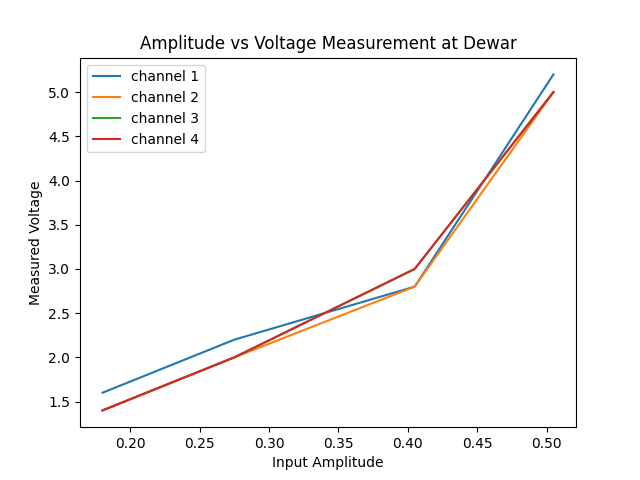
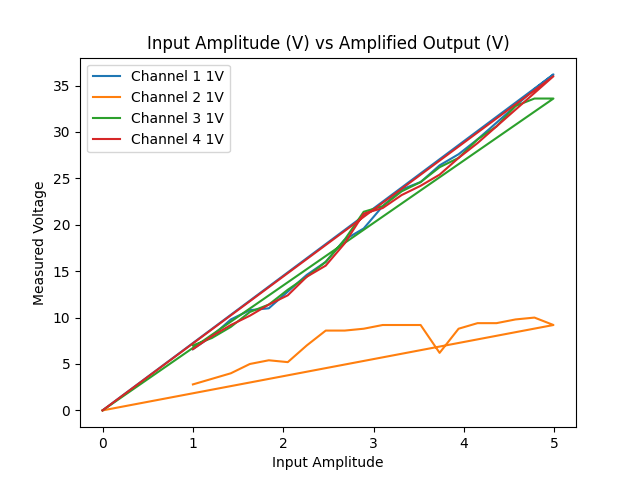
n2 amp complete

diff --git a/latex/chap9.tex b/latex/chap9.tex
@@ -4,27 +4,46 @@
 \chapter{Amplifier Revision Design}
 The investigation of the first generation amp design and testing gave the team useful insight into what needed to change for the next hardware revision. An evaluation of the goals of Nessie2 provided the basis for the redesign. By exploring a number of hardware architecture choices we begin to rebuild the amplifier circuit from the beginning.
 \section{Nessie2 Overview}
-As capabilities of the CSEs and SLEDS arrays have increased, so too have requests from customers. What started as a project to drive a single 512x512 LED array has turned into a deep investigation to the physics and hardware constraints involved with increasing frame rates and resolutions. The eventual goal is a system able to drive a 2Kx2K array at 2kHz \cite{chris}.\par To move toward this new goal a distributed architecture using smaller CSEs was envisioned. Each CSE would be capable of driving twice as many analog channels on a quadrant of the new 2Kx2K array. The array would therefore be driven by four synchronized systems. To accomplish synchronization and analog integrity at this scale required a complete remodeling of the system firmware and hardware architecture. A prototype "Multi-CSE" system has been constructed as a proof-of-concept. In short, this system broke the Dewar pins out to routing boards that accepted all four cable outputs from a CSE each. Using the full bandwidth of a system greatly increased potential resolution and frame rate such that no system was driving more than a normal SLEDS array's worth of pixels. More details on the Multi-CSE prototype and Nessie2 architecture can be found in Christopher Jackson's doctoral dissertation \cite{chris}. The biggest change directly relevant to the analog design was that the main system would only output unamplified DAC signals along new coaxial cables to the Dewar. The Dewars main input board will contain cable receptacles and signal paths to mimic the old interface board. Included in this main input board will reside the new amplifiers. Moving this processing stage outside the system allowed us to consider many more functions for the amplifiers due to their proximity to the RIIC, which will be explored below.
+As capabilities of the CSEs and SLEDS arrays have increased, so too have requests from customers. What started as a project to drive a single 512x512 LED array has turned into a deep investigation to the physics and hardware constraints involved with increasing frame rates and resolutions. The eventual goal is a system able to drive a 2Kx2K array at 2kHz \cite{chris}.\par To move toward this new goal a distributed architecture using smaller CSEs was envisioned. Each CSE would be capable of driving twice as many analog channels on a quadrant of the new 2Kx2K array. The array would therefore be driven by four synchronized systems. To accomplish synchronization and analog integrity at this scale required a complete remodeling of the system firmware and hardware architecture. A prototype "Multi-CSE" system has been constructed as a proof-of-concept. In short, this system broke the Dewar pins out to routing boards that accepted all four cable outputs from a CSE each. Using the full bandwidth of a system greatly increased potential resolution and frame rate such that no system was driving more than a normal SLEDS array's worth of pixels. More details on the Multi-CSE prototype and Nessie2 architecture can be found in Christopher Jackson's doctoral dissertation \cite{chris}. The biggest change directly relevant to the analog design was that the main system would only output unamplified DAC signals along new coaxial cables to the Dewar. The Dewar's main input board will contain cable receptacles and signal paths to mimic the old interface board. Included in this main input board will reside the new amplifiers. Moving this processing stage outside the system allowed us to consider many more functions for the amplifiers due to their proximity to the RIIC, which will be explored below.
 \FloatBarrier
 \begin{figure}[!htb]
 	\centering
 	\includegraphics[]{multi_cse}
-	\caption{Multi-CSE Prototype System}
+	\caption{Multi-CSE Prototype System \cite{chris}}
 \end{figure}
 
 \begin{figure}[!htb]
 	\centering
 	\includegraphics[]{nessie2_arch}
-	\caption{Nessie2 System Architecture. Of note are the external ports for pre-amplified DAC output.}
+	\caption{Nessie2 System Architecture. Of note are the external ports for pre-amplified DAC output \cite{chris}.}
 \end{figure}
 
 \FloatBarrier
 
 \section{Objectives}
-The goal of the new amplifiers is twofold. Due to the new increased resolution and frame rate, the system will have to be able to monitor and tune the amplifiers in order to maintain consistent output. In addition to producing the same level of signal quality from before, these cards had to have some level of analog analysis and response to appropriately self-tune. This is similar to the corrective role of the PC in creating NUC tables, but is system-level and intended to compensate for electrical differences in the large number of channels. An abstract architecture is as follows:
+The goal of the new amplifiers is twofold. The new system hardware already requires new amplifier cards as the current ones are too big. The hardware is due for a revision thanks to the excess of unpopulated components, empty connectors and unexplained design choices that waste space and money on the PCB. Additionally, due to the new increased resolution and frame rate, the system will have to be able to monitor and tune the amplifiers in order to maintain consistent output. These cards have to have some level of analog analysis and response to appropriately self-tune in conjunction with providing signals of the same (hopefully better) quality as the first generation. The self-tuning process is a response to the useless gain and offset potentiometers on the current design that do not affect gain or offset in any meaningful way. This is similar to the corrective role of the PC in creating NUC tables, but is system-level and intended to compensate for electrical differences in the large number of channels. An abstract architecture is as follows:
 \begin{figure}[!htb]
 	\centering
 	\includegraphics[]{amp2_block}
 	\caption{Overview of the new analog component}
 \end{figure}
 \section{Amplifier Design Choices}
+To properly analyze and respond to input, the system had to have some sort of analog probe point to read amplifier output. The simplest solution is to use an ADC to convert the reading into digital data. Once the voltage reading has been converted, a microcontroller or other appropriately small digital component should be able to read and react to this input. The result of the calculation can then be directly output as a voltage through a DAC, where the microcontroller will tell the DAC how much extra voltage to add to the summing amplifier component. By implementing a small subsystem that can automatically perform this task we remove the need for manual gain/offset controls and further ensure reliability for the new system.\par
+Working on the previous test setup gave me a foundation for understanding real-time measurements and analog output. Since each channel can be individually tuned regardless of the others, the best architecture should utilize some level of parallelism to work through all 64 channels as quickly as possible.\par
+\subsection{Parallelized Architecture}
+The new Nessie2 system will have 64 analog channels. This in itself creates an interesting problem for the analog designers, as all 64 channels must be accessible for reads to our data processing system. An initial design consisted of placing 32 ADCs on each side of the amplifier board and having the microcontroller probe them.  Many microcontrollers come with multiple ADCs built-in but are usually not able to read from all of them at once. In the interest of pure parallelism, discrete ADCs on every single line would be the most effective solution to the problem. If individual components are going to be placed on every line rather than switching through them with an extra multiplexing layer, an FPGA would be the most effective way to analyze and respond to ADC inputs. The FPGA could be split into as many cores as required (64 in this case) and programmed to self-tune all channels at once when given a start signal. As the main controller, the FPGA would simply have to know what the targeted pixel voltage is (based on the DACIN value) and compare it to the amplifier output. If the amplifier is struggling to meet the target, the FPGA would command its channel's DAC to output compensation voltage that would be added to the DAC input through a summing amplifier. A parallelized architecture would also make testing simpler as individual cores or channels could be examined for issues. \par
+While this would be an effective strategy for parallelzing the workload, discrete ADCs are prohibitively expensive and unavailable for purchase from many vendors due to the chip shortages at the time of writing. The amplifier additionally has size constraints at the moment that prevent us from adding too many components to the board. Hardware-level parallelism is always a balancing act between speeding up the task and adding more and more hardware to the design. While we believe a fully parallel amplifier tuning architecture is the best eventual goal, testing and development will for now be confined to a smaller scale microcontroller setup.
+\FloatBarrier
+\begin{figure}[!htb]
+	\centering
+	\includegraphics[width=0.5\textwidth]{fpga_amp_tuning}
+	\caption{Block diagram of potential parallized architecture with 2 channels. Scalable to the physical limits of the FPGA.}
+\end{figure}
+\FloatBarrier
+\subsection{Sequential Architecture}
+To establish an effective parallel architecture in the future we must first solve the problem sequentially. To accomplish this a similar strategy will be taken of digitally analyzing input and outputting results to a DAC for summing. When performed sequentially, however, the large number of channels requires the designers to figure out an addressing or switching scheme to read from/write to all 64 channels. To accomplish this the channels can be grouped into multiplexing ICs which allow selection of a single input based on a select signal from a digital device. The main controller will be able to request a read from a specific channel which will activate select signals in a way that connects the selected channel to a single analog input. The main benefit of this approach is massively reduced cost and board size, as mux chips are small and the single ADC + DAC required are no longer an issue of cost. By testing this approach we plan to benchmark measurements and see if analysis can be carried out in a timely manner. Embedded solutions require clever programming and a full understanding of the hardware constraints.
+\begin{figure}[!htb]
+	\centering
+	\includegraphics[width=\textwidth]{uc_amp_tuning}
+	\caption{Microcontroller with multiplexed addressing}
+\end{figure}

diff --git a/latex/chap8.tex b/latex/chap8.tex
@@ -126,79 +126,86 @@ When moving on to the layout the main concern was for space and signal integrity
 
 \section{Results}
 \FloatBarrier
-In order to reflect DACIN values I created arrays of amplitude values to be used by the AWG. By sweeping across the desired input range we could quickly gather data on the amplifiers without having to manually adjust inputs. The system operates with discrete sets of analog outputs and as such the measurements would be easy to gather within a predetermined window of time. The oscilloscope scale was fully programmable and allowed us to increase or decrease the number of samples on the screen. Boundaries were set according to the table values and arrays were created to record inputs and outputs. To sweep across a boundary, I created a function that stepped 100 times through the given voltage range.
+In order to reflect DACIN values I created arrays of amplitude values to be used by the AWG. By sweeping across the desired input range we could quickly gather data on the amplifiers without having to manually adjust inputs. The system operates with discrete sets of analog outputs and as such the measurements would be easy to gather within a predetermined window of time. The oscilloscope scale was fully programmable and allowed us to increase or decrease the number of samples on the screen. Boundaries were set according to the range of DACIN values. Testers could set the number of iterations or steps to increase the precision of a test. The first iterations of the procedure only used 5 steps, but further testing and development of the software allowed as many steps as desired.
 \FloatBarrier
 \begin{lstlisting}
-	# DACIN = 9000
-	dacin_9000 = [1.41, 1.53]
-	x1 = []
-	y1_1, y2_1, y3_1, y4_1 = []
-	# DACIN = 13106
-	dacin_13106 = [2.07, 2.18]
-	x2 = []
-	y1_2, y2_2, y3_2, y4_2 = []
-	# DACIN = 19660
-	dacin_19660 = [3.04, 3.16]
-	x3 = []
-	y1_3, y2_3, y3_3, y4_3 = []
-	# DACIN = 26214
-	dacin_26214 = [4.02, 4.16]
-	x4 = []
-	y1_4, y2_4, y3_4, y4_4 = []
-	# DACIN = 32767
-	dacin_32767 = [5, 5.2]
-	x5 = []
-	y1_5, y2_5, y3_5, y4_5 = []
+	steps = 50
+	dacin_range = [1, 5.2]
+	x1 = [0] * steps
+	y1_1 = [0] * steps
+	y2_1 = [0] * steps
+	y3_1 = [0] * steps
+	y4_1 = [0] * steps
+	dacin_sweep([1, 5.2], steps, x1, y1_1, y2_1, y3_1, y4_1, awg, scope)
+	plt.plot(x1, y1_1, label="Channel 1")
+	plt.plot(x1, y2_1, label="Channel 2")
+	plt.plot(x1, y3_1, label="Channel 3")
+	plt.plot(x1, y4_1, label="Channel 4")
+	plt.xlabel("Input Amplitude")
+	plt.ylabel("Measured Voltage")
+	plt.title("Input Amplitude (V) vs Amplified Output (V)")
+	plt.legend()
+	# plt.show()
+	filename = num + ".png"
+	plt.savefig(filename)
+	plt.show()
 \end{lstlisting}
 
 \begin{lstlisting}
-	def dacin_sweep(dacin_bounds, x, y1, y2, y3, y4, awg, scope):
-    # turn off AWG
-    awg.set_on_off(1, 0)
-    awg.set_on_off(2, 0)
-    # set scope parameters & turn on displays
-    scope.display_channel("CHAN1", True)
-    scope.set_probe_ratio("CHAN1", 10)
-    scope.set_channel_scale("CHAN1", 5, False)
-    scope.set_channel_offset("CHAN1", -20.20)
+	def dacin_sweep(dacin_bounds, steps, x, y1, y2, y3, y4, awg, scope):
+	# turn off AWG
+	awg.set_on_off(1, 0)
+	awg.set_on_off(2, 0)
+	# set scope parameters & turn on displays
+	scope.display_channel("CHAN1", True)
+	scope.set_probe_ratio("CHAN1", 10)
+	scope.set_channel_scale("CHAN1", 10, False)
+	scope.set_channel_offset("CHAN1", -5)
 
-    scope.display_channel("CHAN2", True)
-    scope.set_probe_ratio("CHAN2", 10)
-    scope.set_channel_scale("CHAN2", 5, False)
-    scope.set_channel_offset("CHAN2", -36.40)
+	scope.display_channel("CHAN2", True)
+	scope.set_probe_ratio("CHAN2", 10)
+	scope.set_channel_scale("CHAN2", 10, False)
+	scope.set_channel_offset("CHAN2", -10)
 
-    scope.display_channel("CHAN3", True)
-    scope.set_probe_ratio("CHAN3", 10)
-    scope.set_channel_scale("CHAN3", 5, False)
-    scope.set_channel_offset("CHAN3", -24.70)
+	scope.display_channel("CHAN3", True)
+	scope.set_probe_ratio("CHAN3", 10)
+	scope.set_channel_scale("CHAN3", 10, False)
+	scope.set_channel_offset("CHAN3", -15)
 
-    scope.display_channel("CHAN4", True)
-    scope.set_probe_ratio("CHAN4", 10)
-    scope.set_channel_scale("CHAN4", 5, False)
-    scope.set_channel_offset("CHAN4", -15.0)
-    step = (dacin_bounds(1) - dacin_bounds(0)) / 100
-
-    for i in range(100):
-        x[i] = dacin_bounds(0) + step
-        awg.set_waveform(1, 1)
-        awg.set_frequency(1, 1000000)
-        awg.set_amplitude(1, x[i])
-        awg.set_offset(1, 0)
-        awg.set_phase(1, 0)
-        awg.set_on_off(1, 1)
-        chan1 = scope.get_waveform_samples("CHAN1", "NORMal")
-        chan2 = scope.get_waveform_samples("CHAN2", "NORMal")
-        chan3 = scope.get_waveform_samples("CHAN3", "NORMal")
-        chan4 = scope.get_waveform_samples("CHAN4", "NORMal")
-        y1[i] = max(chan1) - min(chan1)
-        print(y1[i])
-        y2[i] = max(chan2) - min(chan2)
-        print(y2[i])
-        y3[i] = max(chan3) - min(chan3)
-        print(y3[i])
-        y4[i] = max(chan4) - min(chan4)
-        print(y4[i])
-        step += step
+	scope.display_channel("CHAN4", True)
+	scope.set_probe_ratio("CHAN4", 10)
+	scope.set_channel_scale("CHAN4", 10, False)
+	scope.set_channel_offset("CHAN4", -20)
+	step = (dacin_bounds[1] - dacin_bounds[0]) / steps
+	nextval = dacin_bounds[0]
+	print(steps, "iterations with voltage step", step, "V")
+	with alive_bar(steps * 4, force_tty=True) as bar:
+			for i in range(steps):
+					x[i] = nextval
+					nextval = nextval + step
+					print(x[i], "V in")
+					awg.set_waveform(1, 1)
+					awg.set_frequency(1, 1000000)
+					awg.set_amplitude(1, x[i])
+					awg.set_offset(1, x[i] / 2)
+					awg.set_phase(1, 0)
+					awg.set_on_off(1, 1)
+					chan1 = scope.get_waveform_samples("CHAN1", "NORMal")
+					chan2 = scope.get_waveform_samples("CHAN2", "NORMal")
+					chan3 = scope.get_waveform_samples("CHAN3", "NORMal")
+					chan4 = scope.get_waveform_samples("CHAN4", "NORMal")
+					y1[i] = max(chan1) - min(chan1)
+					bar()
+					# print(y1[i])
+					y2[i] = max(chan2) - min(chan2)
+					bar()
+					# print(y2[i])
+					y3[i] = max(chan3) - min(chan3)
+					bar()
+					# print(y3[i])
+					y4[i] = max(chan4) - min(chan4)
+					bar()
+	# print(y4[i])
 \end{lstlisting}
 \FloatBarrier
 Using this simple script the equipment was automated to set parameters and measure, storing the data in arrays to be plotted with numpy later. \par
@@ -222,4 +229,58 @@ Initial data collection was only performed with five input points and five outpu
 \end{figure}
 The graphs make diagnosing and parsing issues significantly easier. For example, \ref{graphb} shows a card that has somewhat irregular response across channels 2 and 4. This can easily be pointed to as an issue with the signals' driver, amplifier B. Identified in this way, the cards can quickly be touched up and re-tested.
 \section{Further Testing}
-ADD NEW GRAPHS HERE
+Adding iterations yielded smooth results. By iterating through the voltage bounds with a fine grain the cards are thoroughly tested within all normal voltage levels they will be expected to encounter in the system. The goal of adding more iterations is to approach a continuous measurement that reliably reports the behavior of the circuit at any input. Adding iterations is a useful measurement tool, but comes with the caveat of making the program take much longer to run. The oscilloscope is slow to report back its channel measurements and cannot scale well with multiple outputs.
+\section{Testing Conclusions}
+The testing procedure was sufficiently automated and documented at this point. While the procedure certainly left room for improvement, fixing test procedures is an iterative process that requires experience with the existing procedures to improve. A major area of concern was the time taken for testing by increasing iterations. The time lapsed did not appear to scale linearly and adding more iterations would increase the time taken by far more than a simple scalar. To improve on this the oscilloscope must be replaced entirely by an analog or digital device that can perform fast measurements without extra issues. The analysis process is quite straightforward (Plot Vpp over increasing voltage) and can certainly be performed by a faster component. Alternatively, four oscilloscopes could be stacked to measure and report on each channel independently, although this could lead to issues and inconsistencies. The oscilloscope programming is entirely sequential and therefore not ideal for parallel measurements.\par
+This testing model led to multiple developments and discoveries that will be useful when creating and testing the next generation of amplifiers. Using the automation and PCB design strategies outlined here will allow us to implement features such as self-tuning gain and doubling the number of channels.
+\FloatBarrier
+
+\begin{figure}[!htb]
+	\centering
+	\includegraphics[width=\textwidth]{full_setup}
+	\caption{Full testing setup powered on}
+\end{figure}
+
+\begin{figure}[!htb]
+	\centering
+	\includegraphics[width=\textwidth]{full_setup2}
+	\caption{Measurements in progress}
+\end{figure}
+
+\begin{figure}
+	\centering
+	\begin{subfigure}[b]{0.4\textwidth}
+		\includegraphics[width=\textwidth]{output_measurement_10x}
+		\caption{10x iterations results on a good card}
+	\end{subfigure}
+	\begin{subfigure}[b]{0.55\textwidth}
+		\includegraphics[width=\textwidth]{output_measurement_10x_settings}
+		\caption{Terminal output for test run}
+	\end{subfigure}
+	\caption{Data collected \& terminal output with 10 iterations}
+\end{figure}
+\FloatBarrier
+
+\begin{figure}[!htb]
+	\centering
+	\includegraphics[width=0.7\textwidth]{output_measurement_50x}
+	\caption{Results from 50x iterations}
+\end{figure}
+
+\begin{figure}[!htb]
+	\centering
+	\includegraphics[width=0.7\textwidth]{output_measurement_50x_settings}
+	\caption{Revised terminal output with 50 iterations}
+\end{figure}
+
+\begin{figure}[!htb]
+	\centering
+	\includegraphics[width=0.7\textwidth]{output_measurement_100x}
+	\caption{Output measurement with 100 iterations}
+\end{figure}
+
+\begin{figure}[!htb]
+	\centering
+	\includegraphics[width=0.7\textwidth]{output_measurement_100x_settings}
+	\caption{Terminal output after 100 iterations}
+\end{figure}
